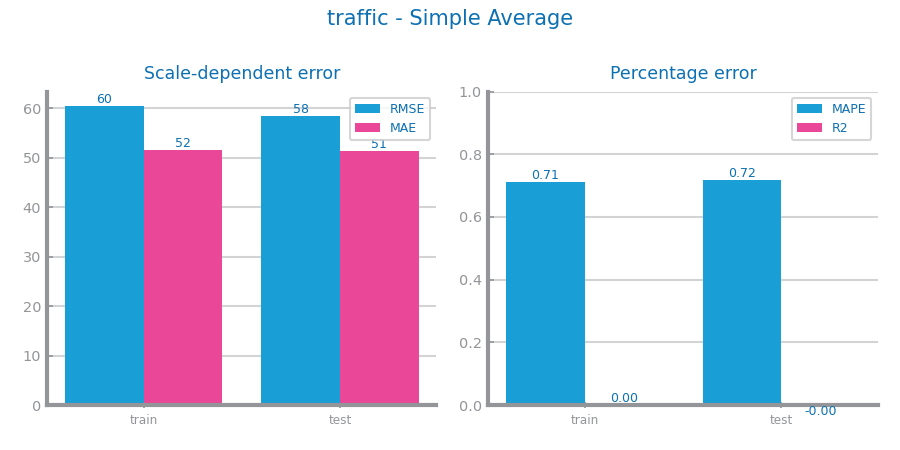
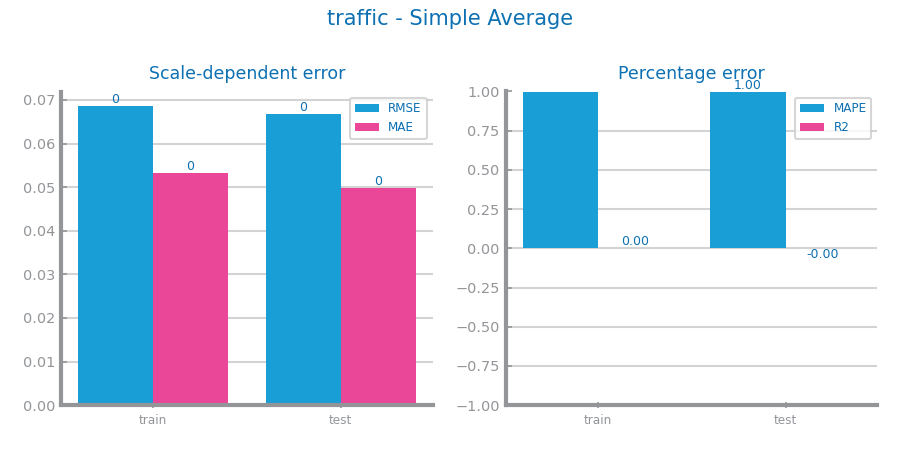
Fixed some file names.

diff --git a/forecasting/models/covid/persistence.py b/forecasting/models/covid/persistence.py
@@ -5,8 +5,8 @@ from forecasting.models.PersistenceOptimistRegressor import PersistenceOptimistR
 from forecasting.models.PersistenceRealistRegressor import PersistenceRealistRegressor
 from utils.dslabs_functions import series_train_test_split, plot_forecasting_eval, plot_forecasting_series
 
-covid_filename: str = "../../data/covid/forecast_covid_first_diff.csv"  # TODO: Get data from differentiated data (DONE?)
-covid_file_tag: str = "forecast_covid"
+covid_filename: str = "../../data/covid/processed_data/forecast_covid_second_diff.csv"
+covid_file_tag: str = "covid"
 index_col: str = "date"
 target: str = "deaths"
 covid_data: DataFrame = read_csv(covid_filename, index_col=index_col, parse_dates=True, infer_datetime_format=True)

diff --git a/forecasting/models/covid/simple_average.py b/forecasting/models/covid/simple_average.py
@@ -4,8 +4,8 @@ from pandas import read_csv, DataFrame, Series
 from forecasting.models.SimpleAvgRegressor import SimpleAvgRegressor
 from utils.dslabs_functions import series_train_test_split, plot_forecasting_eval, plot_forecasting_series
 
-covid_filename: str = "../../data/covid/forecast_covid_first_diff.csv"  # TODO: Get data from differentiated data (DONE?)
-covid_file_tag: str = "forecast_covid"
+covid_filename: str = "../../data/covid/processed_data/forecast_covid_second_diff.csv"
+covid_file_tag: str = "covid"
 index_col: str = "date"
 target: str = "deaths"
 covid_data: DataFrame = read_csv(covid_filename, index_col=index_col, parse_dates=True, infer_datetime_format=True)

diff --git a/forecasting/models/covid/rolling_mean.py b/forecasting/models/covid/rolling_mean.py
@@ -4,8 +4,8 @@ from pandas import read_csv, DataFrame, Series
 from utils.dslabs_functions import series_train_test_split, HEIGHT, rolling_mean_study, plot_forecasting_eval, \
     plot_forecasting_series
 
-covid_filename: str = "../../data/covid/forecast_covid_first_diff.csv"  # TODO: Get data from differentiated data (DONE?)
-covid_file_tag: str = "forecast_covid"
+covid_filename: str = "../../data/covid/processed_data/forecast_covid_second_diff.csv"
+covid_file_tag: str = "covid"
 index_col: str = "date"
 target: str = "deaths"
 covid_data: DataFrame = read_csv(covid_filename, index_col=index_col, parse_dates=True, infer_datetime_format=True)

diff --git a/forecasting/models/covid/lstms.py b/forecasting/models/covid/lstms.py
@@ -4,8 +4,8 @@ from pandas import read_csv, DataFrame, Series
 from forecasting.models.DS_LSTM import DS_LSTM, prepare_dataset_for_lstm
 from utils.dslabs_functions import series_train_test_split, lstm_study, plot_forecasting_eval, plot_forecasting_series
 
-covid_filename: str = "../../data/covid/forecast_covid_first_diff.csv"  # TODO: Get data from differentiated data (DONE?)
-covid_file_tag: str = "forecast_covid"
+covid_filename: str = "../../data/covid/processed_data/forecast_covid_second_diff.csv"
+covid_file_tag: str = "covid"
 timecol: str = "date"
 target: str = "deaths"
 measure: str = "R2"

diff --git a/forecasting/models/traffic/persistence.py b/forecasting/models/traffic/persistence.py
@@ -4,7 +4,7 @@ from pandas import read_csv, DataFrame, Series
 from forecasting.models.PersistenceOptimistRegressor import PersistenceOptimistRegressor
 from utils.dslabs_functions import series_train_test_split, plot_forecasting_eval, plot_forecasting_series
 
-traffic_filename: str = "../../data/traffic/forecast_traffic_first_diff.csv"  # TODO: Get data from differentiated data (DONE?)
+traffic_filename: str = "../../data/traffic/processed_data/forecast_traffic_second_diff.csv"
 traffic_file_tag: str = "traffic"
 index_col: str = "Timestamp"
 target: str = "Total"

diff --git a/forecasting/models/traffic/lstms.py b/forecasting/models/traffic/lstms.py
@@ -4,7 +4,7 @@ from pandas import read_csv, DataFrame, Series
 from forecasting.models.DS_LSTM import DS_LSTM, prepare_dataset_for_lstm
 from utils.dslabs_functions import series_train_test_split, lstm_study, plot_forecasting_eval, plot_forecasting_series
 
-traffic_filename: str = "../../data/traffic/forecast_traffic_first_diff.csv"  # TODO: Get data from differentiated data (DONE?)
+traffic_filename: str = "../../data/traffic/processed_data/forecast_traffic_second_diff.csv"
 traffic_file_tag: str = "traffic"
 index_col: str = "Timestamp"
 target: str = "Total"

diff --git a/forecasting/models/traffic/simple_average.py b/forecasting/models/traffic/simple_average.py
@@ -4,7 +4,7 @@ from pandas import read_csv, DataFrame, Series
 from forecasting.models.SimpleAvgRegressor import SimpleAvgRegressor
 from utils.dslabs_functions import series_train_test_split, plot_forecasting_eval, plot_forecasting_series
 
-traffic_filename: str = "../../data/traffic/forecast_traffic_first_diff.csv"  # TODO: Get data from differentiated data (DONE?)
+traffic_filename: str = "../../data/traffic/processed_data/forecast_traffic_second_diff.csv"
 traffic_file_tag: str = "traffic"
 index_col: str = "Timestamp"
 target: str = "Total"

diff --git a/forecasting/models/covid/arima.py b/forecasting/models/covid/arima.py
@@ -5,8 +5,8 @@ from statsmodels.tsa.arima.model import ARIMA
 from utils.dslabs_functions import series_train_test_split, HEIGHT, arima_study, plot_forecasting_eval, \
     plot_forecasting_series
 
-covid_filename: str = "../../data/covid/forecast_covid_first_diff.csv"  # TODO: Get data from differentiated data (DONE?)
-covid_file_tag: str = "forecast_covid"
+covid_filename: str = "../../data/covid/processed_data/forecast_covid_second_diff.csv"
+covid_file_tag: str = "covid"
 index_col: str = "date"
 target: str = "deaths"
 measure: str = "R2"

diff --git a/forecasting/models/traffic/rolling_mean.py b/forecasting/models/traffic/rolling_mean.py
@@ -4,7 +4,7 @@ from pandas import read_csv, DataFrame, Series
 from utils.dslabs_functions import series_train_test_split, HEIGHT, rolling_mean_study, plot_forecasting_eval, \
     plot_forecasting_series
 
-traffic_filename: str = "../../data/traffic/forecast_traffic_first_diff.csv"  # TODO: Get data from differentiated data (DONE?)
+traffic_filename: str = "../../data/traffic/processed_data/forecast_traffic_second_diff.csv"
 traffic_file_tag: str = "traffic"
 index_col: str = "Timestamp"
 target: str = "Total"

diff --git a/forecasting/models/traffic/arima.py b/forecasting/models/traffic/arima.py
@@ -5,7 +5,7 @@ from statsmodels.tsa.arima.model import ARIMA
 from utils.dslabs_functions import series_train_test_split, HEIGHT, arima_study, plot_forecasting_eval, \
     plot_forecasting_series
 
-traffic_filename: str = "../../data/traffic/forecast_traffic_first_diff.csv"  # TODO: Get data from differentiated data (DONE?)
+traffic_filename: str = "../../data/traffic/processed_data/forecast_traffic_second_diff.csv"
 traffic_file_tag: str = "traffic"
 index_col: str = "Timestamp"
 target: str = "Total"
